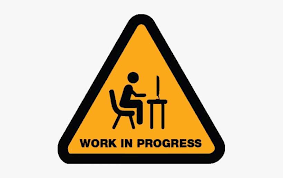
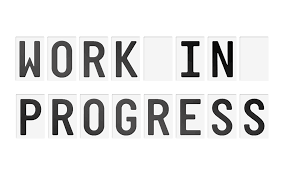
change

diff --git a/index.html b/index.html
@@ -1,22 +1,23 @@
 <!DOCTYPE html>
-<html lang="en">
+<html lang="zh-Hant-TW">
 <head>
     <meta charset="UTF-8">
-    <title>網站維護中</title>
+    <title>訂票系統維護中</title>
+    <div style="text-align: center; line-height: 40px; padding-top: 30px; height: 400px;
+            color: Black;">
+        <span style="font-size: 32px;">網頁維護中</span><br/>
+        <span style="font-size: 24px;">本訂票系統進行設備維護中，暫時無法提供服務。</span><br/>
+        <span style="font-size: 24px;">造成不便，敬請見諒。</span>
+    </div>
 </head>
 <body>
 <div>
-    <img src="imgs/wip.png" style="width:100%;">
+    <img src="imgs/wip.png"
+         style="
+         position:absolute;
+         width:40%;height:40%;
+         top:30%;left:30%;
+         margin:0%;">
 </div>
-<hr />
-<div style="text-align: center; line-height: 40px; padding-top: 30px; height: 400px;
-            color: Black;">
-    <span style="font-size: 32px;">網站維護中</span><br />
-    <span style="font-size: 24px;">本系統進行設備維護中，暫時無法提供服務。</span>
-    <br />
-    <span style="font-size: 24px;">倘造成不便，敬請見諒。</span>
-</head>
-<body>
-
 </body>
 </html>
